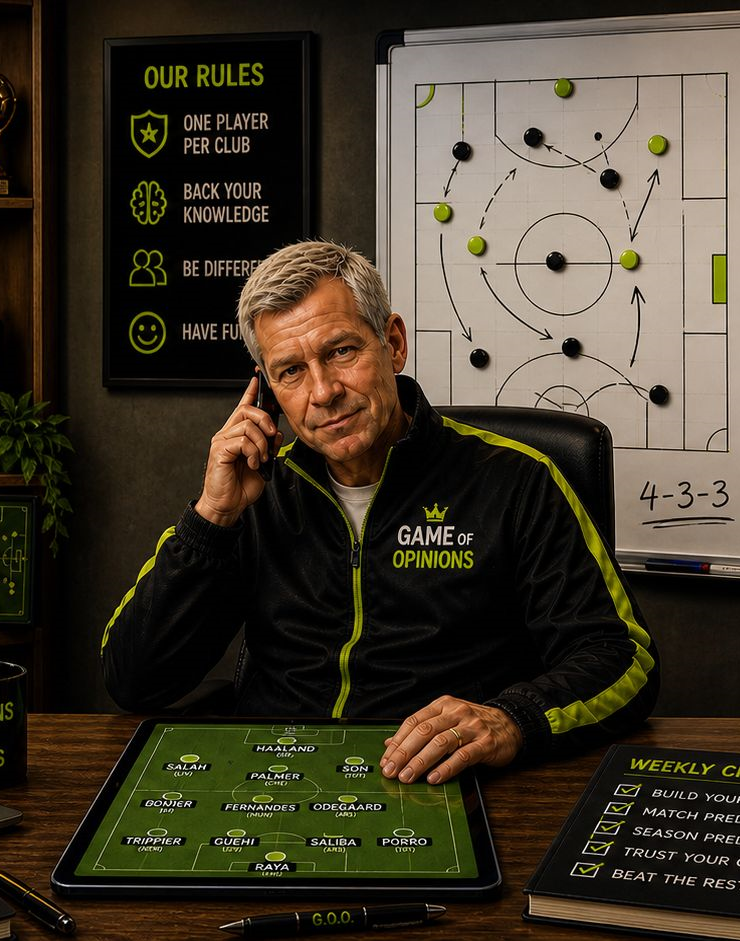
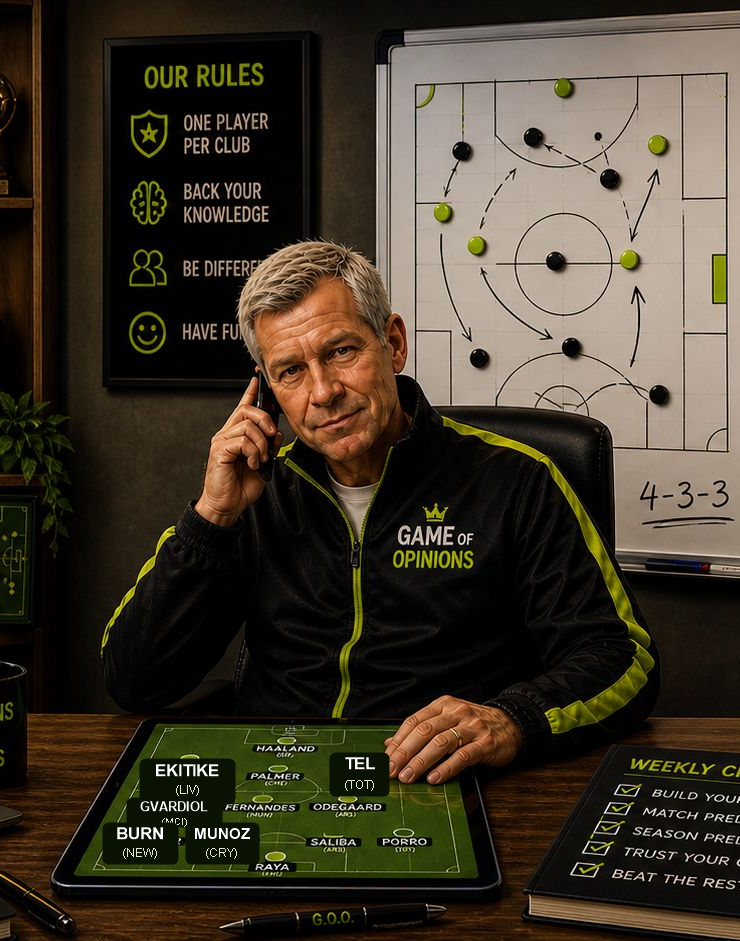
updates

Changed region(s): [[0.1243, 0.8013, 0.373, 0.9245], [0.4351, 0.8013, 0.5284, 0.8629]]

diff --git a/index.html b/index.html
@@ -192,6 +192,24 @@ nav a:hover {
 
 }
 
+/* Rules link - previously plain nav text, easy to miss next to the Log In/
+   Sign Up pills. Given a light border so it registers as a real nav item
+   without competing with the primary Sign Up CTA. */
+.rules-link {
+  display: inline-flex;
+  align-items: center;
+  color: #fff !important;
+  padding: 8px 16px;
+  border-radius: 999px;
+  border: 1px solid rgba(255,255,255,0.22);
+  background: rgba(255,255,255,0.04);
+}
+.rules-link:hover {
+  border-color: rgba(199,255,56,0.5);
+  background: rgba(199,255,56,0.08);
+  color: #c7ff38 !important;
+}
+
 .signup-btn {
 
   background: linear-gradient(135deg, #d9ff6e 0%, #c7ff38 55%, #a8e619 100%);
@@ -267,24 +285,32 @@ nav a:hover {
 
 }
 
-/* Header install icon - opens the install overlay instead of living inline
+/* Header install button - opens the install overlay instead of living inline
    in the hero, so it stays reachable from every page state on both mobile
-   and desktop instead of only being visible on first scroll of the homepage. */
+   and desktop instead of only being visible on first scroll of the homepage.
+   Carries a visible "Install" label (not just an icon) since the icon alone
+   doesn't read as "install this app" to a first-time visitor, and a hover
+   tooltip is invisible to touch users anyway. */
 .install-nav-btn {
   display: inline-flex;
   align-items: center;
-  justify-content: center;
-  width: 38px;
-  height: 38px;
+  gap: 6px;
   flex-shrink: 0;
-  border-radius: 50%;
+  padding: 8px 14px 8px 10px;
+  border-radius: 999px;
   border: 1px solid rgba(199,255,56,0.4);
   background: rgba(199,255,56,0.06);
   color: #c7ff38;
-  font-size: 16px;
+  font-size: 13px;
+  font-weight: 700;
   line-height: 1;
   cursor: pointer;
   transition: 0.2s ease;
+  white-space: nowrap;
+}
+.install-nav-btn-icon {
+  font-size: 16px;
+  line-height: 1;
 }
 .install-nav-btn:hover {
   border-color: rgba(199,255,56,0.8);
@@ -1531,11 +1557,13 @@ nav a:hover {
   <div class="header-top">
     <div class="logo">GAME <span>OF OPINIONS</span></div>
     <nav>
-      <button id="installNavBtn" class="install-nav-btn" type="button" onclick="openInstallOverlay()" title="Install GOO" aria-label="Install GOO">&#128242;</button>
+      <button id="installNavBtn" class="install-nav-btn" type="button" onclick="openInstallOverlay()" title="Install GOO" aria-label="Install GOO">
+        <span class="install-nav-btn-icon" aria-hidden="true">&#128242;</span><span>Install</span>
+      </button>
       <a href="myxi.html" class="user-only">Your Team</a>
       <a href="season.html" class="user-only">Season Picks</a>
       <a href="league.html" class="user-only">League</a>
-      <a href="rules.html" class="guest-only">Rules</a>
+      <a href="rules.html" class="rules-link guest-only">Rules</a>
       <a href="javascript:void(0)" class="login-link guest-only" onclick="openLogin()">Log In</a>
       <a href="signup.html" class="signup-btn guest-only">Sign Up</a>
       <a href="javascript:void(0)" class="user-only" onclick="handleLogout()">Log Out</a>
